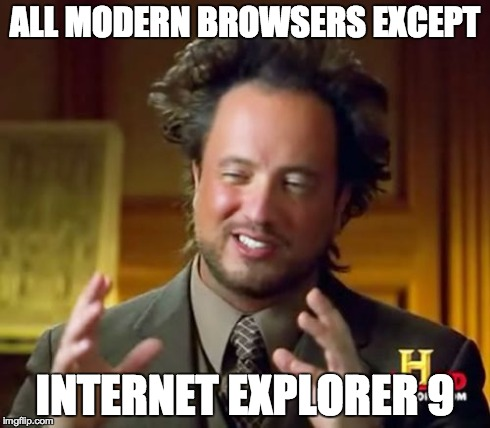
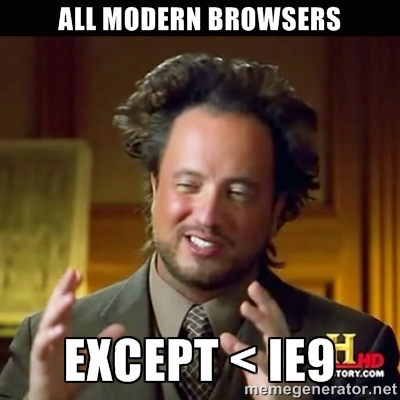
Update ie9 meme and improve code highlighting

diff --git a/index.html b/index.html
@@ -17,7 +17,7 @@ table.sourceCode { width: 100%; line-height: 100%; }
 td.lineNumbers { text-align: right; padding-right: 4px; padding-left: 4px; color: #aaaaaa; border-right: 1px solid #aaaaaa; }
 td.sourceCode { padding-left: 5px; }
 code > span.kw { color: #40B261; font-weight: bold; }
-code > span.dt { color: #902000; }
+code > span.dt { color: #FFB412; }
 code > span.dv { color: #40a070; }
 code > span.bn { color: #40a070; }
 code > span.fl { color: #40a070; }
